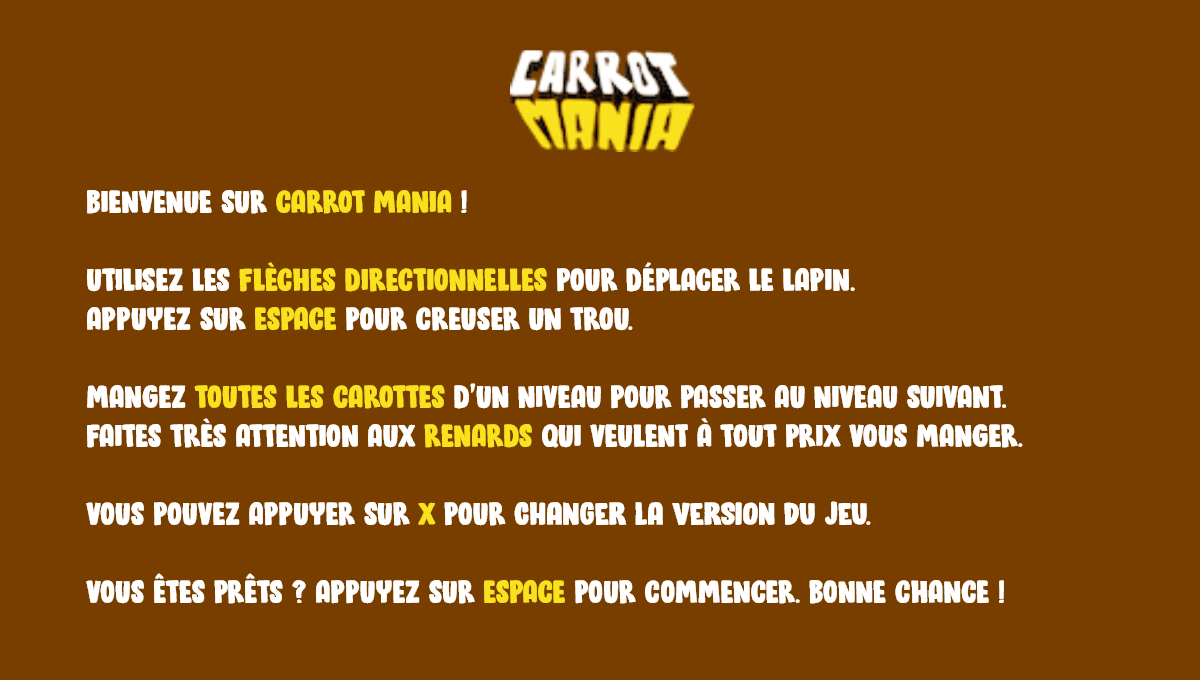
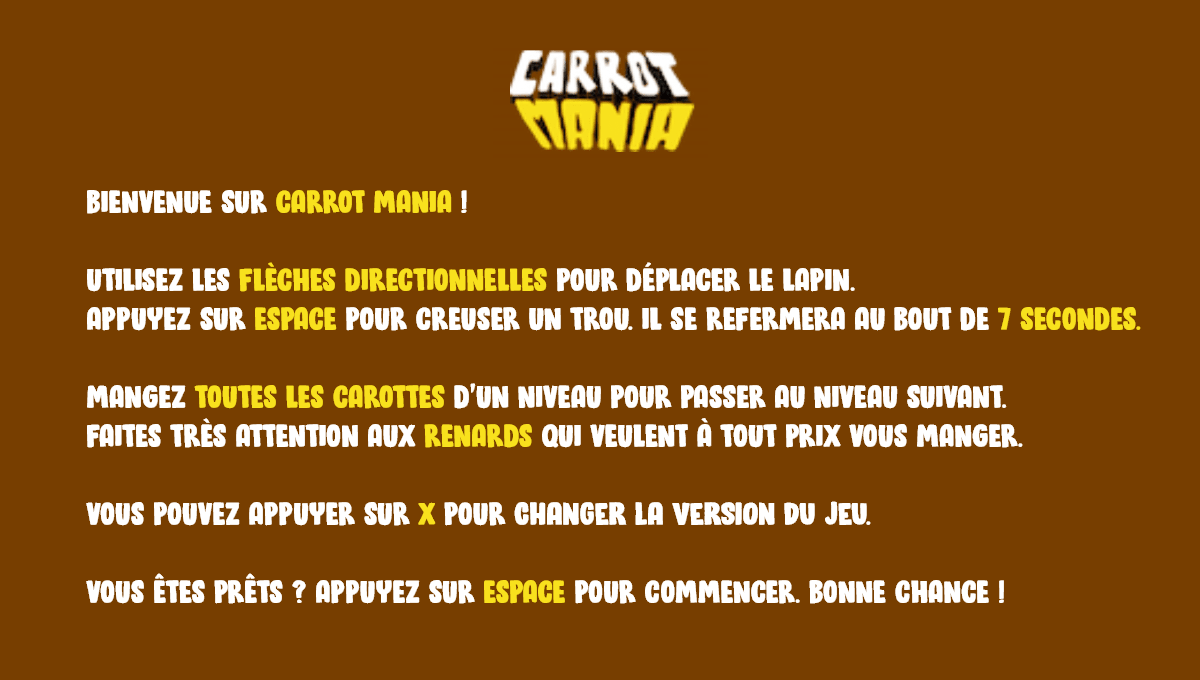
son choc renard + modification règles

Changed region(s): [[0.5242, 0.4324, 0.9558, 0.4941]]

diff --git a/js/script.js b/js/script.js
@@ -174,6 +174,10 @@ function playSound(sound) {
       audio.src = 'audio/loose.mp3';
       audio.play();
       break;
+    case 'loose-life':
+      audio.src = 'audio/loose-life.mp3';
+      audio.play();
+      break;
   }
 }
 
@@ -721,6 +725,7 @@ function detectEnemiesCollision() {
   for (let i = 0; i < foxes.length; i++) {
     currentFox = foxes[i];
     if ((rabbitX + 1 > currentFox.foxX && rabbitX + 1 < currentFox.foxX + 1 && rabbitY === currentFox.foxY) || (rabbitX < currentFox.foxX + 1 && rabbitX > currentFox.foxX && rabbitY === currentFox.foxY)) {
+      playSound('loose-life');
       restartLevel();
     }
   }
